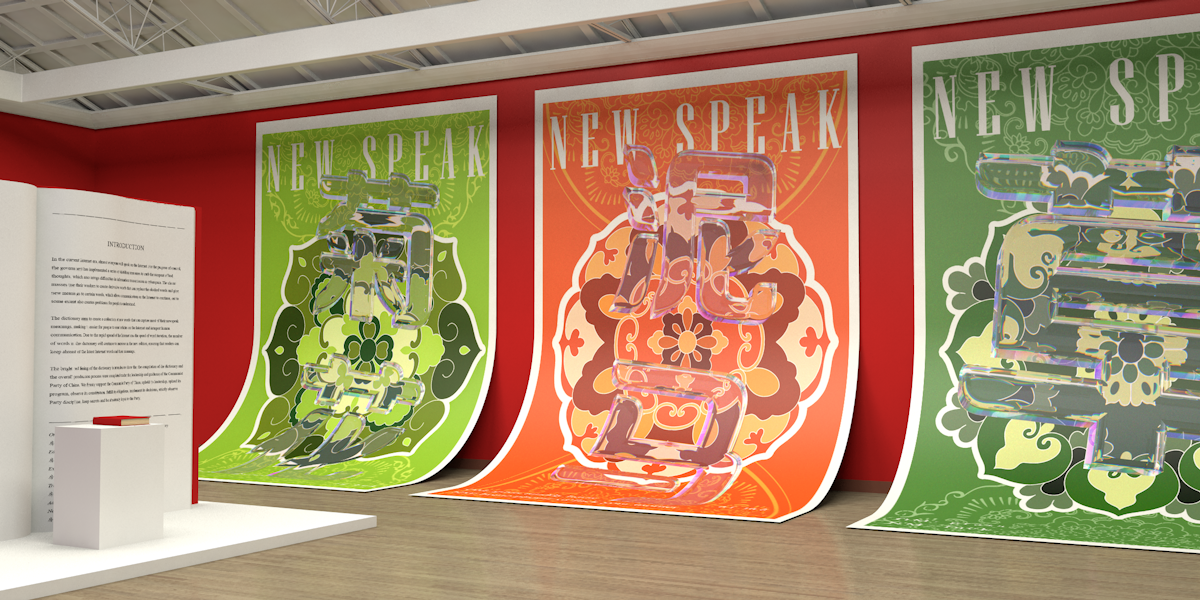
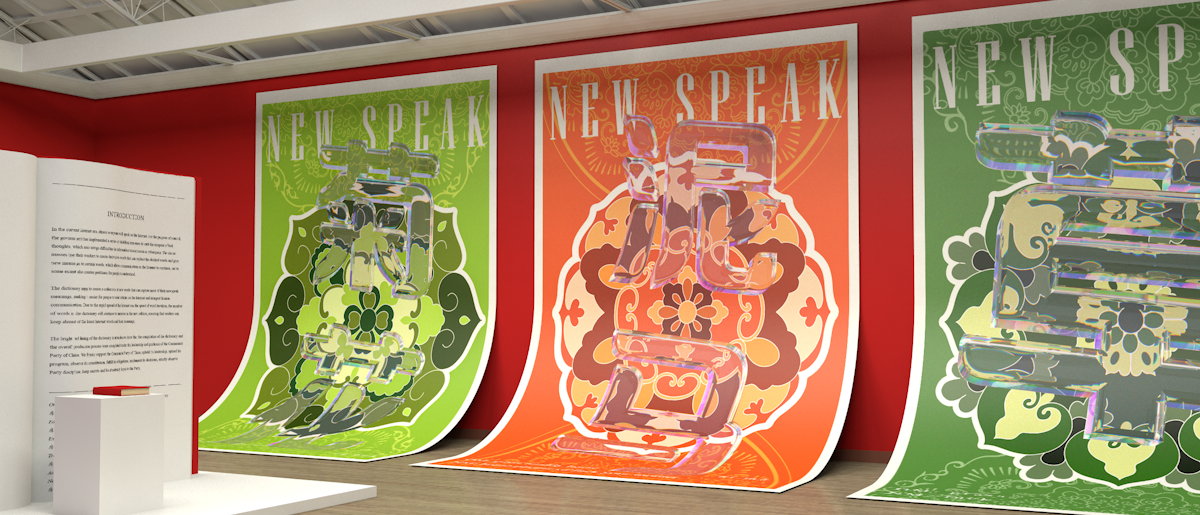
21.52

diff --git a/Wang.html b/Wang.html
@@ -215,13 +215,13 @@
 <div class="wide4" >
   <div class="row">
    <div class="col-lg-4 ">
-     <img src="img/Wang/劳资.png" class="img-fluid" >
+     <img src="img/Wang/劳资.jpg" class="img-fluid" >
    </div>
    <div class="col-lg-4 ">
-     <img src="img/Wang/菊花.png" class="img-fluid" >
+     <img src="img/Wang/菊花.jpg" class="img-fluid" >
    </div>
    <div class="col-lg-4 ">
-     <img src="img/Wang/碧池.png" class="img-fluid" >
+     <img src="img/Wang/碧池.jpg" class="img-fluid" >
    </div>
   </div>
 </div>
@@ -232,13 +232,13 @@
 <div class="wide" class="paragraph"class="container-fluid" >
   <div class="row">
    <div class="col-lg-4 ">
-     <img src="img/Wang/草.png" class="img-fluid" >
+     <img src="img/Wang/草.jpg" class="img-fluid" >
    </div>
    <div class="col-lg-4 ">
-     <img src="img/Wang/泥马.png" class="img-fluid" >
+     <img src="img/Wang/泥马.jpg" class="img-fluid" >
    </div>
    <div class="col-lg-4 ">
-     <img src="img/Wang/河蟹.png" class="img-fluid" >
+     <img src="img/Wang/河蟹.jpg" class="img-fluid" >
    </div>
   </div>
 </div>
@@ -287,7 +287,7 @@
 <div class="wide4">
   <div class="col-12">
     <br>
-    <img src="img/Wang/展厅二AR2.png" class="img-fluid" >
+    <img src="img/Wang/展厅二AR.png" class="img-fluid" >
 </div>
 </div>
 </div>

diff --git a/index.html b/index.html
@@ -61,13 +61,6 @@
   </ol>
   <div class="carousel-inner">
     <div class="carousel-item active">
-      <a href="Shan.html"><img src="img/carousel1.jpg"  class="d-block w-100" alt="..."></a>
-      <div class="carousel-caption d-none d-md-block">
-        <h5 class="font1">山本昌南仿拍</h5>
-        <p class="font2">“清澈里与外，红叶满长天。”——良宽</p>
-      </div>
-    </div>
-    <div class="carousel-item">
       <a href="Wang.html"><img src="img/carousel2.jpg" class="d-block w-100" alt="..."></a>
       <div class="carousel-caption  d-none d-md-block">
         <h5 class="font1">NEWSPEAK</h5>
@@ -79,6 +72,13 @@
       <div class="carousel-caption d-none d-md-block">
         <h5 class="font1">伴伴少女内衣包装设计</h5>
         <p class="font2">为发育期女孩们的担忧寻找方案</p>
+      </div>
+    </div>
+    <div class="carousel-item ">
+      <a href="Shan.html"><img src="img/carousel1.jpg"  class="d-block w-100" alt="..."></a>
+      <div class="carousel-caption d-none d-md-block">
+        <h5 class="font1">山本昌南仿拍</h5>
+        <p class="font2">“清澈里与外，红叶满长天。”——良宽</p>
       </div>
     </div>
   </div>
